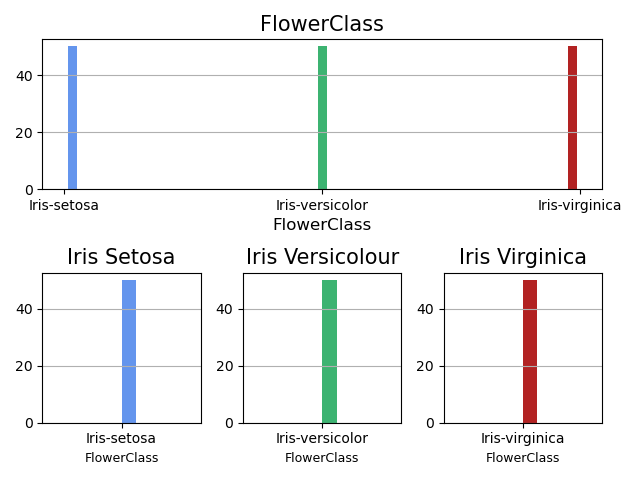
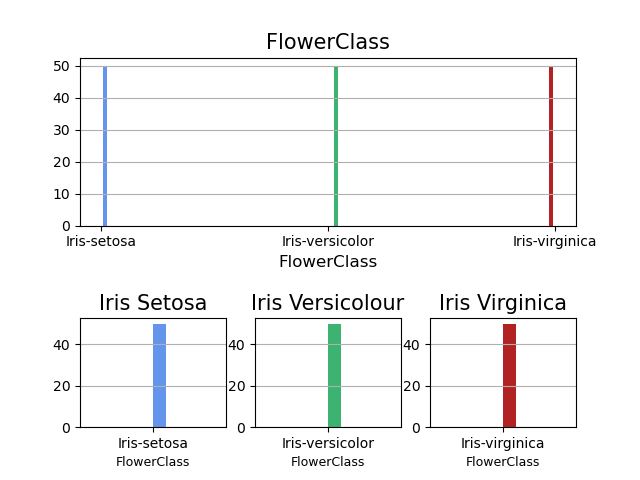
Added function for additional anaysis of the data

diff --git a/analysis.py b/analysis.py
@@ -48,7 +48,7 @@ def textOutput(text, title):
 # function for outputting single variable histogram summaries
 def variableHist(xAxis):
     plt.subplot(2, 1, 1)
-    plt.hist([irisSetosa[xAxis], irisVersicolour[xAxis], irisVirginica[xAxis]], bins= 15, label=['Iris-setosa', 'Iris-versicolor', 'Iris-virginica'], color = ["cornflowerblue", "mediumseagreen", "firebrick"])
+    plt.hist([irisSetosa[xAxis], irisVersicolour[xAxis], irisVirginica[xAxis]], bins= 30, label=['Iris-setosa', 'Iris-versicolor', 'Iris-virginica'], color = ["cornflowerblue", "mediumseagreen", "firebrick"])
     plt.title(xAxis, size = 15, color = 'black')
     plt.xlabel(xAxis, size = 12, color = 'black')
     plt.grid(axis = 'y')
@@ -61,15 +61,15 @@ def variableHist(xAxis):
         plt.grid(axis = 'y')
 
     # Iris Setosa subplot
-    plt.subplot(2, 3, 4)
+    plt.subplot(3, 3, 7)
     subvariableHist(irisSetosa, xAxis, "cornflowerblue", "Iris Setosa")
 
     # Iris Versicolour subplot
-    plt.subplot(2, 3, 5)
+    plt.subplot(3, 3, 8)
     subvariableHist(irisVersicolour, xAxis, "mediumseagreen", "Iris Versicolour")
 
     # Iris Virginica subplot
-    plt.subplot(2, 3, 6)
+    plt.subplot(3, 3, 9)
     subvariableHist(irisVirginica, xAxis, "firebrick", "Iris Virginica")
 
     # outputting the histograms to a saved .png
@@ -103,15 +103,15 @@ def subplotter(xAxis, yAxis):
         plt.ylabel(yAxis, size = 9, color = 'black')
 
     # Iris Setosa subplot
-    plt.subplot(2, 3, 4)
+    plt.subplot(3, 3, 7)
     subplotterbot(irisSetosa, xAxis, yAxis, "cornflowerblue", "Iris Setosa")
 
     # Iris Versicolour subplot
-    plt.subplot(2, 3, 5)
+    plt.subplot(3, 3, 8)
     subplotterbot(irisVersicolour, xAxis, yAxis, "mediumseagreen", "Iris Versicolour")
 
     # Iris Virginica subplot
-    plt.subplot(2, 3, 6)
+    plt.subplot(3, 3, 9)
     subplotterbot(irisVirginica, xAxis, yAxis, "firebrick", "Iris Virginica")
 
     # Outputting the Scatter plots and saving as a .png
@@ -122,22 +122,47 @@ def subplotter(xAxis, yAxis):
 ###################### MAIN CODE ######################
 # 1. 
 # Creating a text summary for each variable
-textOutput(irisData.describe(), "Summary of Iris Data set")
-textOutput(irisSetosa.describe(), "Summary of Iris Setosa subset")
-textOutput(irisVersicolour.describe(), "Summary of Iris Versicolour subset")
-textOutput(irisVirginica.describe(), "Summary of Iris Virginica subset")
+#textOutput(irisData.describe(), "Summary of Iris Data set")
+#textOutput(irisSetosa.describe(), "Summary of Iris Setosa subset")
+#textOutput(irisVersicolour.describe(), "Summary of Iris Versicolour subset")
+#textOutput(irisVirginica.describe(), "Summary of Iris Virginica subset")
 
 # 2.
 # Creating histograms for each variable
-for col in irisData.columns:
-    variableHist(col)
+#for col in irisData.columns:
+#    variableHist(col)
 
 # 3.
 # Creating scatter potls for each pair of variables
-subplotter("SepalLength", "SepalWidth")
+#subplotter("SepalLength", "SepalWidth")
 
-subplotter("PetalLength", "PetalWidth")
+#subplotter("PetalLength", "PetalWidth")
 
-subplotter("SepalLength", "PetalWidth")
+#subplotter("SepalLength", "PetalWidth")
 
-subplotter("PetalLength", "SepalWidth")
+#subplotter("PetalLength", "SepalWidth")
+
+# 4. Extra
+# Analysis of the relationship between petal dimetions and the sepal relationships
+flowers = ["irisSetosa", "irisVersicolour", "irisVirginica"]
+
+irisDataPetalRatio = irisData["PetalLength"] / irisData["PetalWidth"]
+irisDataSepalRatio = irisData["SepalLength"] / irisData["SepalWidth"]
+
+irisSetosaPetalRatio = irisSetosa["PetalLength"] / irisSetosa["PetalWidth"]
+irisSetosaSepalRatio = irisSetosa["SepalLength"] / irisSetosa["SepalWidth"]
+
+irisVersicolourPetalRatio = irisVersicolour["PetalLength"] / irisVersicolour["PetalWidth"]
+irisVersicolourSepalRatio = irisVersicolour["SepalLength"] / irisVersicolour["SepalWidth"]
+
+irisVirginicaPetalRatio = irisVirginica["PetalLength"] / irisVirginica["PetalWidth"]
+irisVirginicaSepalRatio = irisVirginica["SepalLength"] / irisVirginica["SepalWidth"]
+
+plt.scatter(irisSetosaPetalRatio, irisSetosaSepalRatio, color="cornflowerblue")
+plt.scatter(irisVersicolourPetalRatio, irisVersicolourSepalRatio, color= "mediumseagreen")
+plt.scatter(irisVirginicaPetalRatio, irisVirginicaSepalRatio, color= "firebrick")
+
+plt.title("PetalRatio Vs SepalRatio", size = 20, color = 'black')
+plt.xlabel("PetalRatio", size = 12, color = 'black')
+plt.ylabel("SepalRatio", size = 12, color = 'black')
+plt.show()
